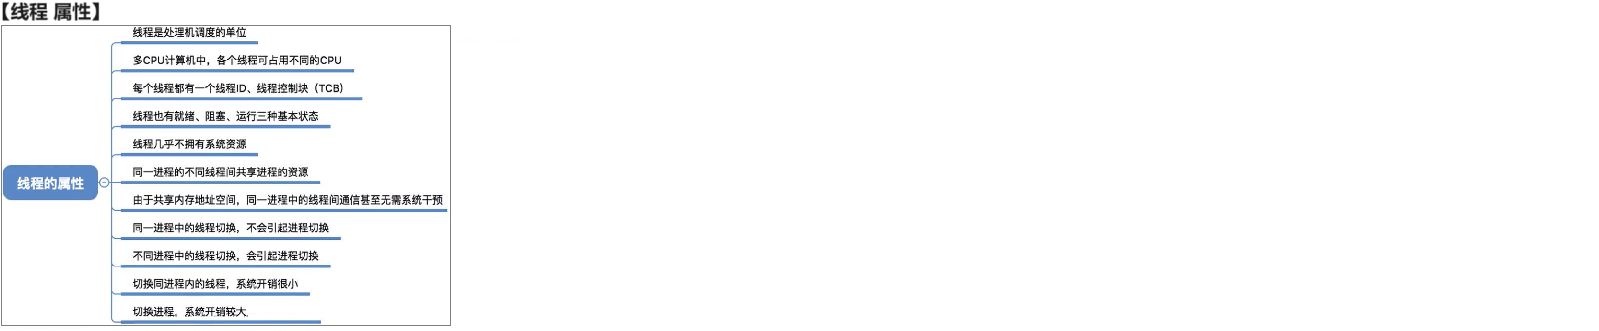
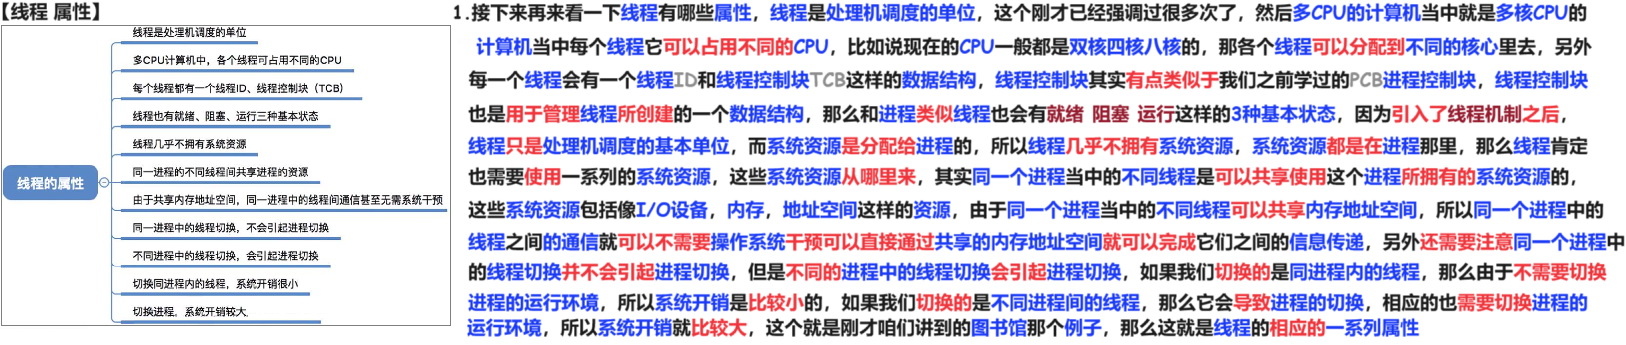
240512

diff --git a/01 初试/01 OS/02 24 25 王道/01 基础/02 进程 线程/01 进程 线程/05 线程概念 多线程模型 240512/02 Doc.md b/01 初试/01 OS/02 24 25 王道/01 基础/02 进程 线程/01 进程 线程/05 线程概念 多线程模型 240512/02 Doc.md
@@ -21,3 +21,5 @@
 
 
 # 04 线程 属性
+
+<img src="https://cvp.oss-cn-shanghai.aliyuncs.com/picgo/202405121252835.png" style="zoom:50%;" />
